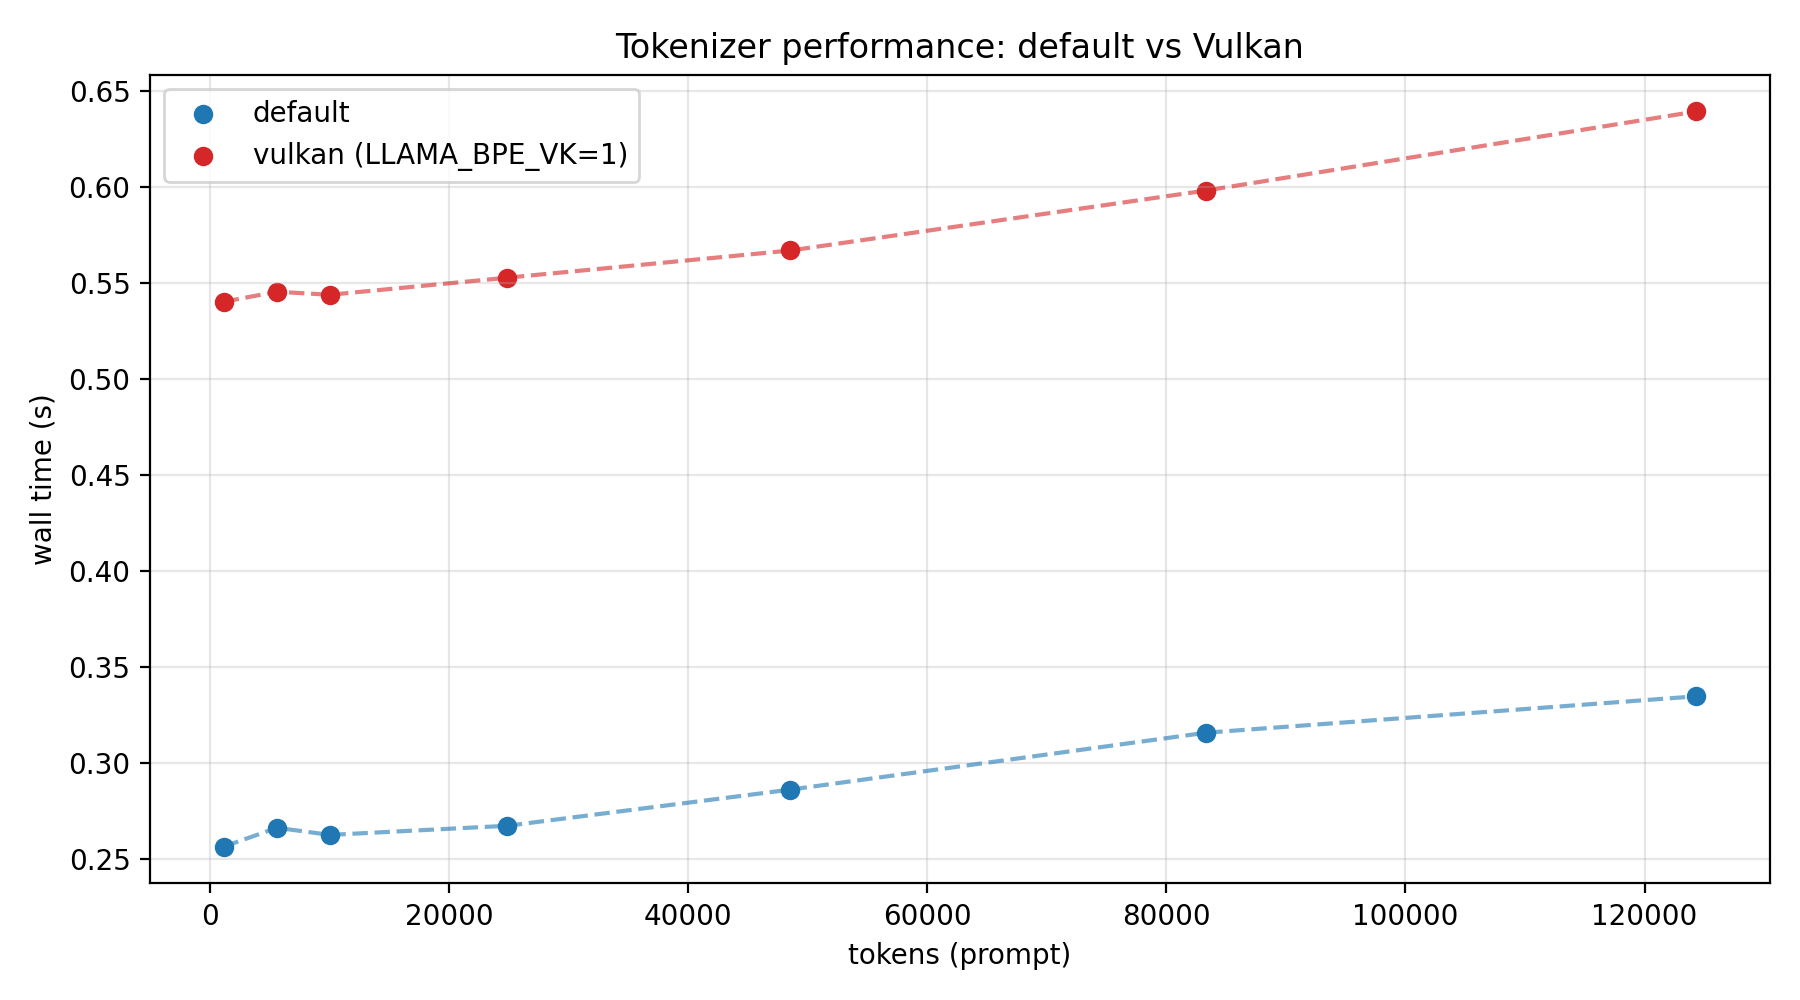
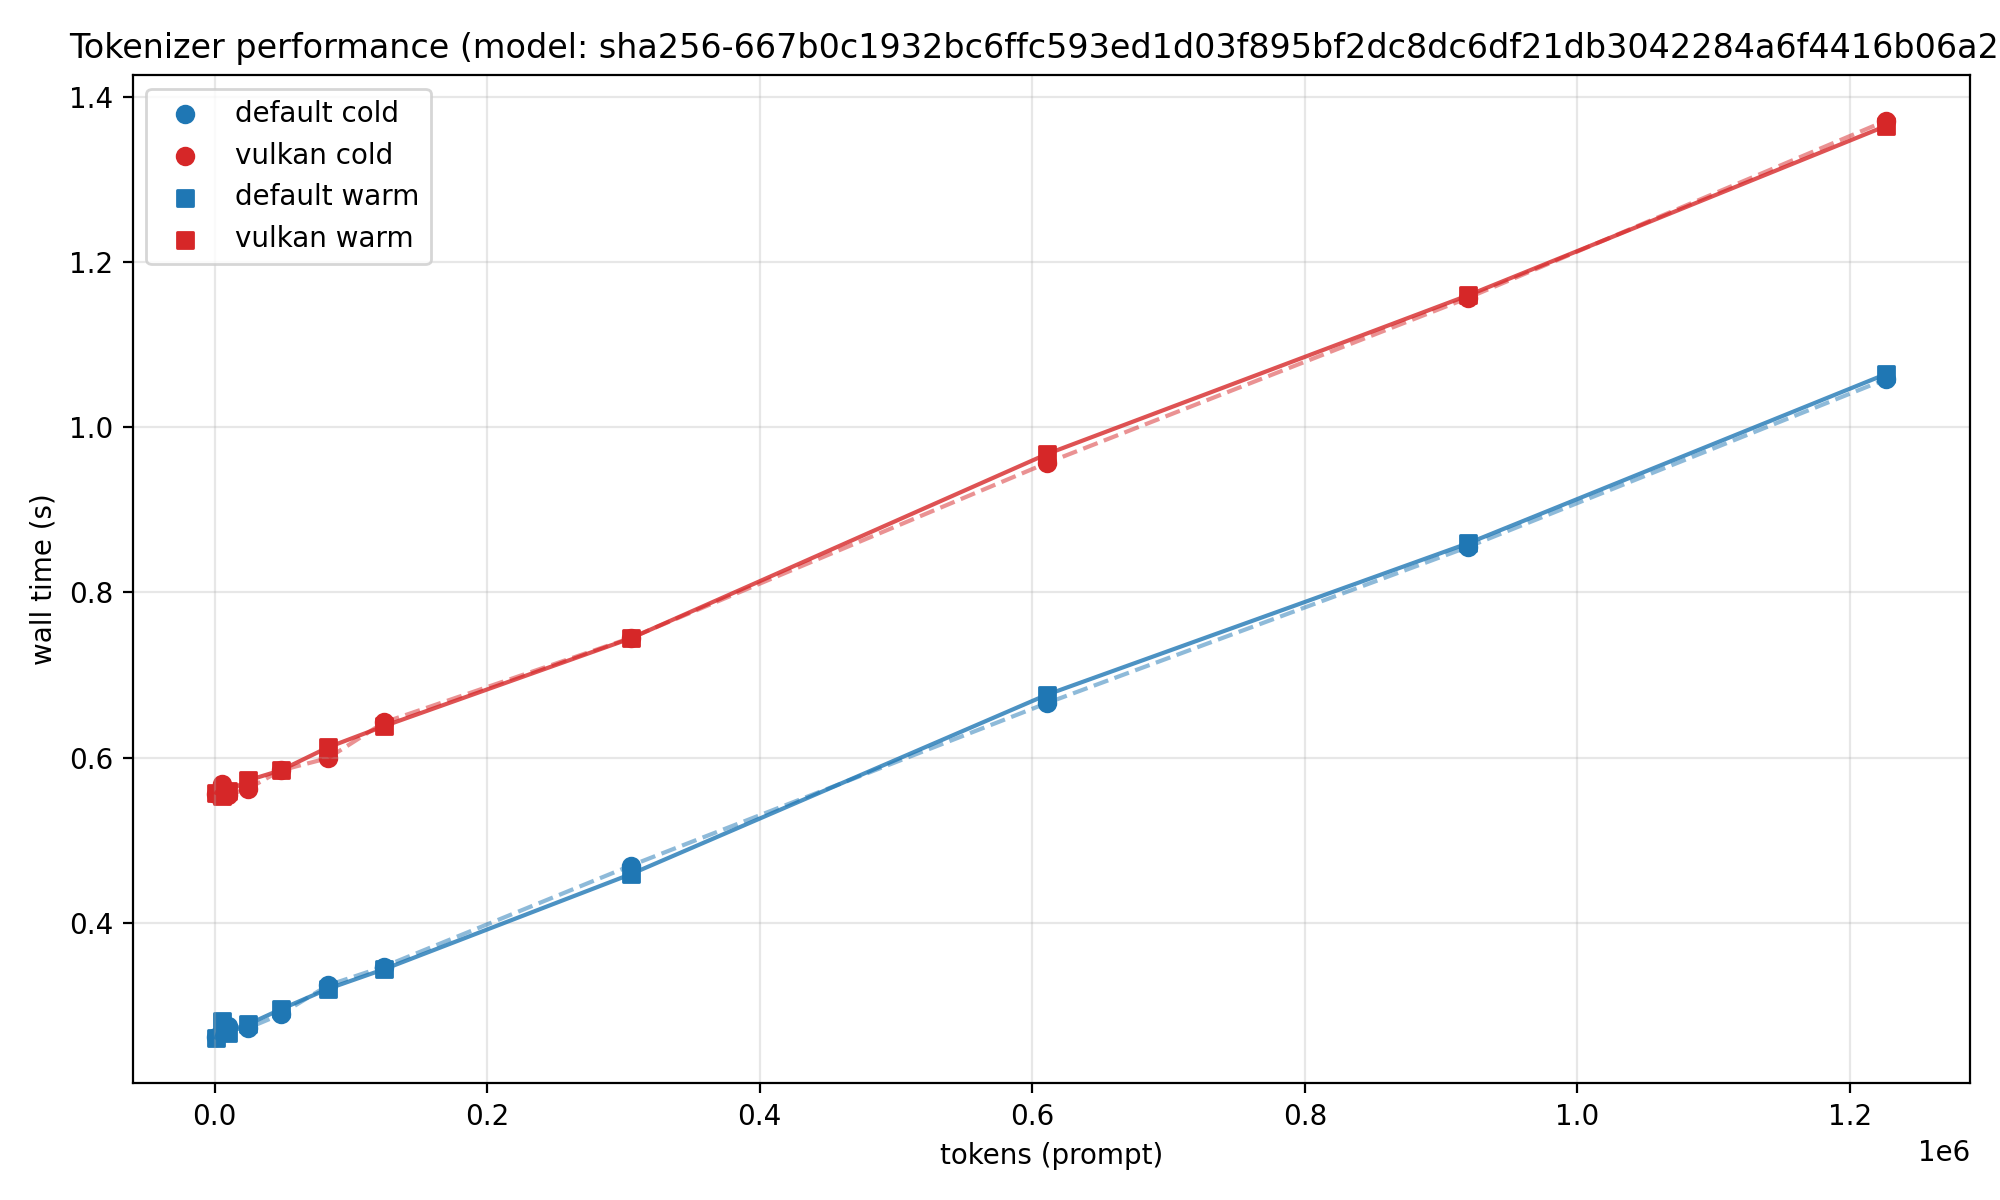
benchmark

diff --git a/scripts/benchmark_tokenizers_plot.py b/scripts/benchmark_tokenizers_plot.py
@@ -142,19 +142,49 @@ def collect_series(
     return rows
 
 
-def plot(rows: List[Dict[str, float]], out_path: Path) -> None:
-    tokens = [r["tokens"] for r in rows]
-    t_def = [r["t_default"] for r in rows]
-    t_vk = [r["t_vk"] for r in rows]
+def collect_cold_and_warm(
+    binary: Path,
+    model: Path,
+    corpus: str,
+    target_char_lengths: Iterable[int],
+    cold_runs: int,
+    cold_warmup: int,
+    warm_runs: int,
+    warm_warmup: int,
+) -> Tuple[List[Dict[str, float]], List[Dict[str, float]]]:
+    print(f"Collecting cold timings (runs={cold_runs}, warmup={cold_warmup}) ...")
+    cold = collect_series(binary, model, corpus, target_char_lengths, runs=cold_runs, warmup=cold_warmup)
+    print(f"\nCollecting warm timings (runs={warm_runs}, warmup={warm_warmup}) ...")
+    warm = collect_series(binary, model, corpus, target_char_lengths, runs=warm_runs, warmup=warm_warmup)
+    return cold, warm
 
-    plt.figure(figsize=(9, 5))
-    plt.scatter(tokens, t_def, color="#1f77b4", label="default")
-    plt.scatter(tokens, t_vk, color="#d62728", label="vulkan (LLAMA_BPE_VK=1)")
-    plt.plot(tokens, t_def, color="#1f77b4", linestyle="--", alpha=0.6)
-    plt.plot(tokens, t_vk, color="#d62728", linestyle="--", alpha=0.6)
+
+def plot(
+    cold: List[Dict[str, float]],
+    warm: List[Dict[str, float]],
+    out_path: Path,
+    title: str,
+) -> None:
+    tokens_c = [r["tokens"] for r in cold]
+    tokens_w = [r["tokens"] for r in warm]
+    t_def_c = [r["t_default"] for r in cold]
+    t_vk_c = [r["t_vk"] for r in cold]
+    t_def_w = [r["t_default"] for r in warm]
+    t_vk_w = [r["t_vk"] for r in warm]
+
+    plt.figure(figsize=(10, 6))
+    plt.scatter(tokens_c, t_def_c, color="#1f77b4", marker="o", label="default cold")
+    plt.scatter(tokens_c, t_vk_c, color="#d62728", marker="o", label="vulkan cold")
+    plt.scatter(tokens_w, t_def_w, color="#1f77b4", marker="s", label="default warm")
+    plt.scatter(tokens_w, t_vk_w, color="#d62728", marker="s", label="vulkan warm")
+    plt.plot(tokens_c, t_def_c, color="#1f77b4", linestyle="--", alpha=0.5)
+    plt.plot(tokens_c, t_vk_c, color="#d62728", linestyle="--", alpha=0.5)
+    plt.plot(tokens_w, t_def_w, color="#1f77b4", linestyle="-", alpha=0.8)
+    plt.plot(tokens_w, t_vk_w, color="#d62728", linestyle="-", alpha=0.8)
     plt.xlabel("tokens (prompt)")
     plt.ylabel("wall time (s)")
-    plt.title("Tokenizer performance: default vs Vulkan")
+    model_label = out_path.stem  # fallback
+    plt.title(title or model_label)
     plt.legend()
     plt.grid(True, alpha=0.3)
     out_path.parent.mkdir(exist_ok=True)
@@ -164,19 +194,41 @@ def plot(rows: List[Dict[str, float]], out_path: Path) -> None:
     print(f"Saved plot to {out_path}")
 
 
+def get_model_name(model_path: Path) -> str:
+    # Try to read GGUF metadata for a friendly model name.
+    try:
+        import sys
+
+        sys.path.insert(0, str(Path(__file__).resolve().parent.parent / "gguf-py"))
+        from gguf import GGUFReader  # type: ignore
+
+        with open(model_path, "rb") as f:
+            reader = GGUFReader(f)
+            kv = reader.meta
+            for key in ("general.name", "model.name"):
+                if key in kv:
+                    return str(kv[key])
+    except Exception:
+        pass
+    return model_path.name
+
+
 def parse_args() -> argparse.Namespace:
     parser = argparse.ArgumentParser(description="Benchmark tokenizer default vs Vulkan and plot with matplotlib.")
     parser.add_argument("--binary", default=str(BIN_DEFAULT), help="Path to llama-tokenize binary.")
     parser.add_argument("--model", default=str(MODEL_DEFAULT), help="Path to model GGUF file.")
-    parser.add_argument("--runs", type=int, default=3, help="Measured runs per point.")
-    parser.add_argument("--warmup", type=int, default=1, help="Warmup runs per point (not measured).")
+    parser.add_argument("--runs", type=int, default=3, help="Measured runs per point (warm series).")
+    parser.add_argument("--warmup", type=int, default=1, help="Warmup runs per point (warm series).")
+    parser.add_argument("--cold-runs", type=int, default=1, help="Measured runs per point for cold series.")
+    parser.add_argument("--cold-warmup", type=int, default=0, help="Warmup runs per point for cold series.")
     parser.add_argument(
         "--targets",
         type=str,
-        default="1000,4000,8000,20000,40000,70000,100000",
+        default="1000,4000,8000,20000,40000,70000,100000,250000,500000,750000,1000000",
         help="Comma-separated target token counts (approx; chars use x4).",
     )
     parser.add_argument("--output", default="benchmarks/tokenizer_vulkan_vs_default.png", help="Output plot path.")
+    parser.add_argument("--title", default=None, help="Plot title. Default includes model name if available.")
     return parser.parse_args()
 
 
@@ -192,12 +244,28 @@ def main() -> None:
     targets_tokens = [int(x) for x in args.targets.split(",")]
     target_chars = [t * 4 for t in targets_tokens]
     corpus = load_corpus()
-    print("Collecting timings (default vs LLAMA_BPE_VK) ...")
-    rows = collect_series(binary, model, corpus, target_chars, runs=args.runs, warmup=args.warmup)
-    plot(rows, Path(args.output))
+    cold_rows, warm_rows = collect_cold_and_warm(
+        binary,
+        model,
+        corpus,
+        target_chars,
+        cold_runs=args.cold_runs,
+        cold_warmup=args.cold_warmup,
+        warm_runs=args.runs,
+        warm_warmup=args.warmup,
+    )
+    model_label = get_model_name(model)
+    title = args.title or f"Tokenizer performance (model: {model_label})"
+    plot(cold_rows, warm_rows, Path(args.output), title=title)
 
-    print("\nSummary (tokens ~ avg time seconds):")
-    for r in rows:
+    print("\nSummary cold (tokens ~ avg time seconds):")
+    for r in cold_rows:
+        print(
+            f"{r['tokens']:>8} tokens | default {r['t_default']:.3f}s | "
+            f"vulkan {r['t_vk']:.3f}s | chars target {r['target_chars']}"
+        )
+    print("\nSummary warm (tokens ~ avg time seconds):")
+    for r in warm_rows:
         print(
             f"{r['tokens']:>8} tokens | default {r['t_default']:.3f}s | "
             f"vulkan {r['t_vk']:.3f}s | chars target {r['target_chars']}"
